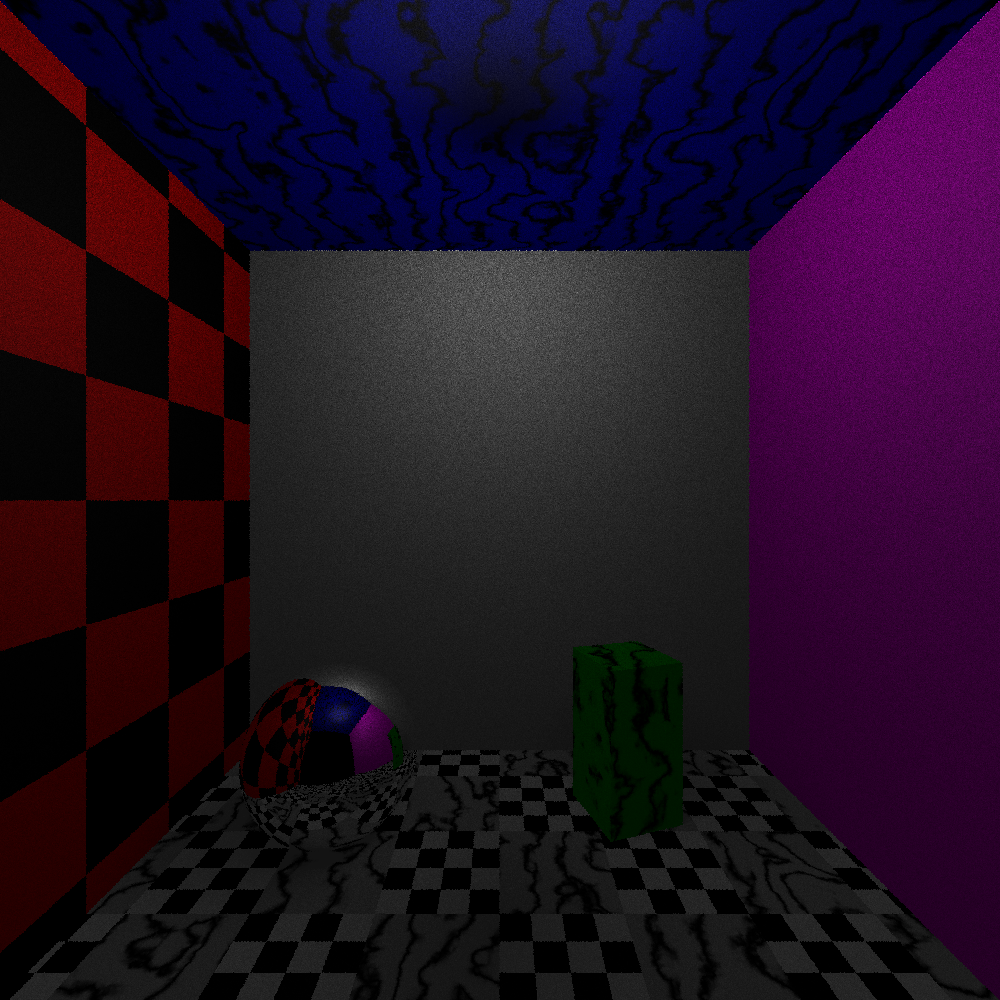
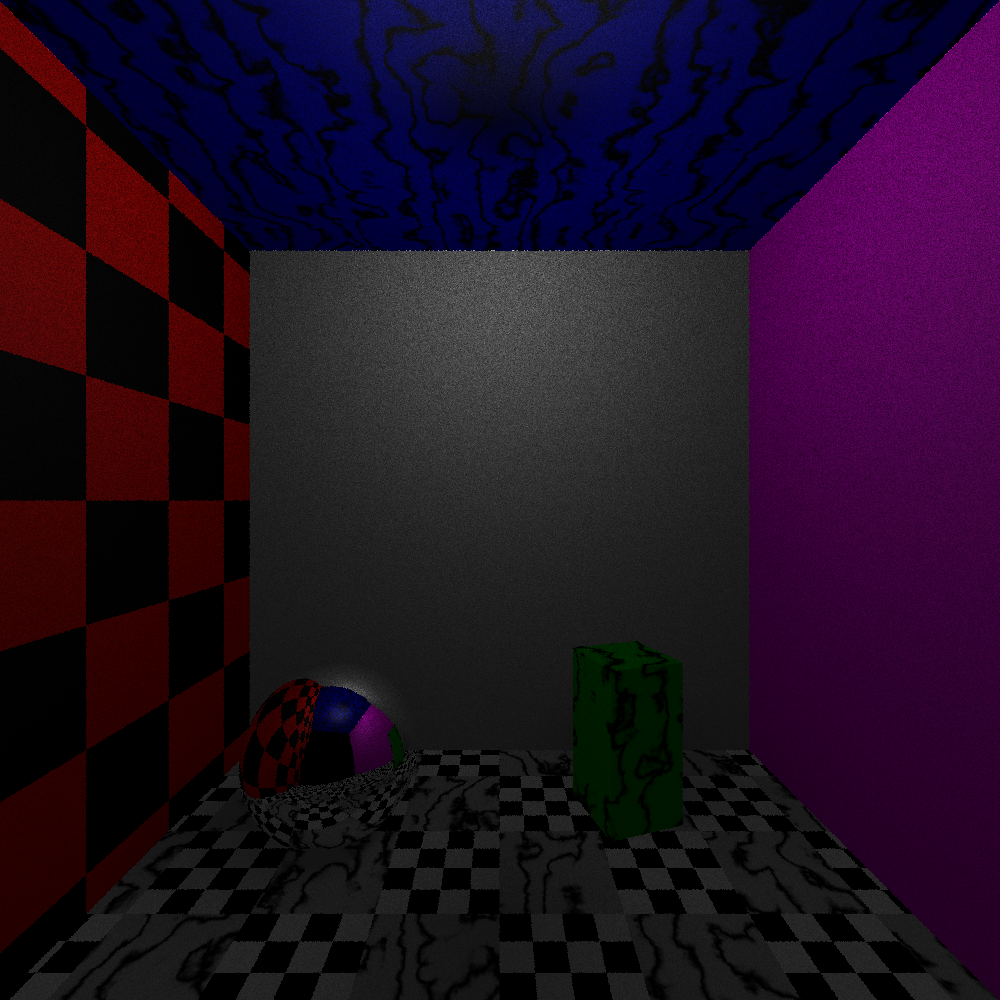
add sample shadow ray method to object trait

diff --git a/src/tracer/object/sphere.rs b/src/tracer/object/sphere.rs
@@ -18,39 +18,6 @@ impl Sphere {
             material: mat,
         })
     }
-
-    /* sample random ray in cone from h.p towards self */
-    /* other objects might want random from sphere instead.. */
-    pub fn sample_shadow(&self, h: &Hit, rand_disk: DVec2) -> Ray {
-        let x = h.p;
-        /* uvw-basis orthonormal basis,
-         * where w is the direction from x to origin of this sphere.
-         * w not normalized. */
-        let w = self.origin - x;
-        let v = w.cross(h.norm).normalize();
-        let u = w.cross(v).normalize();
-
-        let sin_theta_max2 = self.radius * self.radius / w.length_squared();
-        let cos_theta_max = (1.0 - sin_theta_max2).sqrt();
-
-        /* sample random point in unit disk. transform sampled
-         *  point to the uvw-basis and add w.
-         * (scaled by the cosine of the maximum cone angle).
-         *
-         * starting from x, we get the direction towards
-         * a random point on the hemisphere of this sphere
-         * that is visible from x.
-         * could do better and sample from the area of the hemisphere. */
-        let dir = DMat3::from_cols(u, v, w.normalize())
-            * rand_disk.extend(0.0)
-            + w * cos_theta_max;
-
-        Ray::new(
-            x,
-            dir,
-            0,
-        )
-    }
 }
 
 impl Object for Sphere {
@@ -90,5 +57,38 @@ impl Object for Sphere {
             self,
             r,
         )
-     }
+    }
+
+    /* sample random ray in cone from h.p towards self */
+    /* other objects might want random from sphere instead.. */
+    fn sample_shadow_ray(&self, h: &Hit, rand_disk: DVec2) -> Ray {
+        let x = h.p;
+        /* uvw-basis orthonormal basis,
+         * where w is the direction from x to origin of this sphere.
+         * w not normalized. */
+        let w = self.origin - x;
+        let v = w.cross(h.norm).normalize();
+        let u = w.cross(v).normalize();
+
+        let sin_theta_max2 = self.radius * self.radius / w.length_squared();
+        let cos_theta_max = (1.0 - sin_theta_max2).sqrt();
+
+        /* sample random point in unit disk. transform sampled
+         *  point to the uvw-basis and add w.
+         * (scaled by the cosine of the maximum cone angle).
+         *
+         * starting from x, we get the direction towards
+         * a random point on the hemisphere of this sphere
+         * that is visible from x.
+         * could do better and sample from the area of the hemisphere. */
+        let dir = DMat3::from_cols(u, v, w.normalize())
+            * rand_disk.extend(0.0)
+            + w * cos_theta_max;
+
+        Ray::new(
+            x,
+            dir,
+            0,
+        )
+    }
 }

diff --git a/src/tracer/object.rs b/src/tracer/object.rs
@@ -1,4 +1,5 @@
 use crate::{DVec3, DMat3, DVec2, DAffine3};
+use crate::rand_utils;
 use crate::consts::EPSILON;
 use crate::tracer::ray::Ray;
 use crate::tracer::hit::Hit;
@@ -26,11 +27,12 @@ pub trait Object: Sync {
     /* unit length normal for r at p. only called during hit creation
      * => no need to implement for rectangle or cuboid. */
     fn normal_for_at(&self, _r: &Ray, _p: DVec3) -> DVec3 { DVec3::ZERO }
-    fn inside(&self, _r: &Ray) -> bool { false }
-    fn hit(&self, r: &Ray) -> Option<Hit>;
-    fn material(&self) -> &Material;
     fn is_translucent(&self) -> bool { self.material().is_translucent() }
     fn size(&self) -> usize { 1 }
+    fn inside(&self, _r: &Ray) -> bool { false }
+    fn sample_shadow_ray(&self, h: &Hit, rand_disk: DVec2) -> Ray;
+    fn hit(&self, r: &Ray) -> Option<Hit>;
+    fn material(&self) -> &Material;
 }
 
 pub struct Cuboid {
@@ -115,6 +117,7 @@ impl Cuboid {
 }
 
 impl Object for Cuboid {
+    fn sample_shadow_ray(&self, _h: &Hit, _rand_disk: DVec2) -> Ray { todo!() }
     fn size(&self) -> usize { 12 }
 
     fn material(&self) -> &Material { &self.material }
@@ -167,6 +170,14 @@ impl Object for Rectangle {
 
     fn material(&self) -> &Material { &self.material }
 
+    fn sample_shadow_ray(&self, h: &Hit, rand_disk: DVec2) -> Ray {
+        if rand_utils::rand_f64() > 0.5 {
+            self.triangles.0.sample_shadow_ray(h, rand_disk)
+        } else {
+            self.triangles.1.sample_shadow_ray(h, rand_disk)
+        }
+    }
+
     fn hit(&self, r: &Ray) -> Option<Hit> {
         self.triangles.0.hit(r).or_else(|| self.triangles.1.hit(r))
             .and_then(|mut hit| {
@@ -201,7 +212,7 @@ impl Object for Plane {
     fn normal_for_at(&self, r: &Ray, _p: DVec3) -> DVec3 {
         _orient_normal(self.norm, r)
     }
-
+    fn sample_shadow_ray(&self, _h: &Hit, _rand_disk: DVec2) -> Ray { todo!() }
     fn hit(&self, r: &Ray) -> Option<Hit> {
         /* check if plane and ray are parallel. use epsilon instead?
          * or fail only if we get div by zero?? */

diff --git a/src/tracer/object/triangle.rs b/src/tracer/object/triangle.rs
@@ -87,4 +87,16 @@ impl Object for Triangle {
             )
         }
     }
+
+    fn sample_shadow_ray(&self, h: &Hit, rand_disk: DVec2) -> Ray {
+        let alpha = 1.0 - rand_disk.x.sqrt();
+        let beta = rand_disk.y * rand_disk.x.sqrt();
+        let gamma = 1.0 - alpha - beta;
+
+        Ray::new(
+            h.p,
+            alpha*self.a + beta*self.b + gamma*self.c - h.p,
+            0,
+        )
+    }
 }

diff --git a/src/tracer/scene.rs b/src/tracer/scene.rs
@@ -56,7 +56,7 @@ impl Scene {
     pub fn rays_to_light(&self, h: &Hit) -> Vec<Ray> {
         (0..SHADOW_RAYS).map(|_| {
             /* we want to do better than uniformly at random from disk */
-            self.light.sample_shadow(h, rand_utils::rand_unit_disk())
+            self.light.sample_shadow_ray(h, rand_utils::rand_unit_disk())
         }).filter(|r: &Ray| self.hit_light(r)).collect()
     }
 

diff --git a/src/tracer/material.rs b/src/tracer/material.rs
@@ -16,7 +16,6 @@ pub enum Material {
 }
 
 impl Material {
-
     pub fn color(&self, h: &Hit, s: &Scene, r: &Ray) -> DVec3 {
         match self {
             Self::Phong(t) => illumination::phong_illum(t, h, s),
